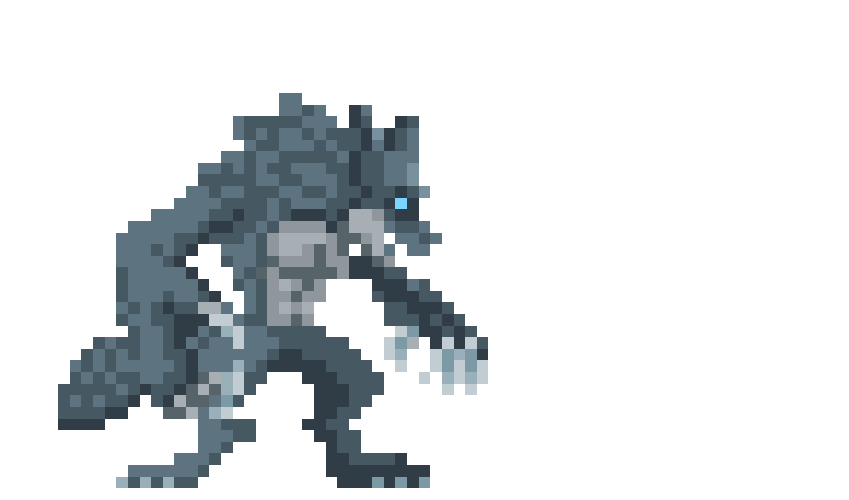
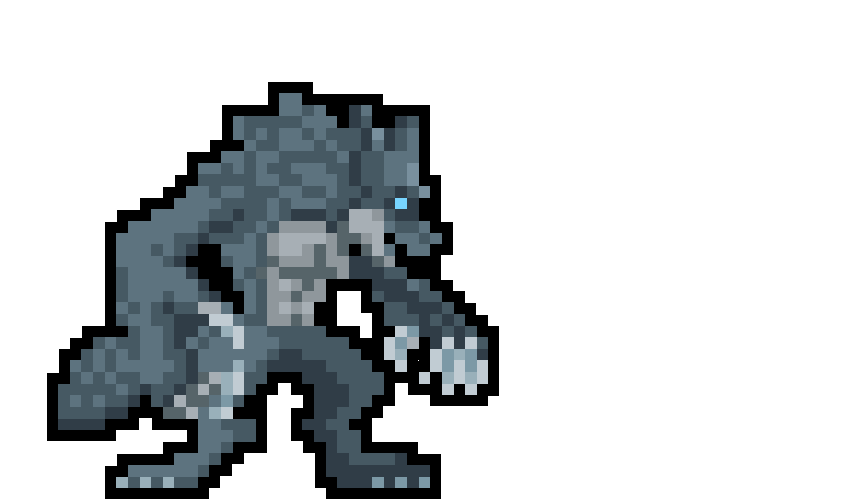
added outline to iddle werewolf sprites

diff --git a/Assets/Scripts/Player/PlayerNetController.cs b/Assets/Scripts/Player/PlayerNetController.cs
@@ -6,7 +6,7 @@ using System.Runtime.CompilerServices;
 using UnityEngine;
 using UnityEngine.U2D;
 
-public class PlayerController : MonoBehaviourPun, IPunObservable
+public class PlayerNetController : MonoBehaviourPun, IPunObservable
 {
     [SerializeField]
     public int HumanSpeed = 5;
@@ -35,7 +35,7 @@ public class PlayerController : MonoBehaviourPun, IPunObservable
     private bool wantsToAttack = false;
 
     private Vector3 initialScale;
-    private static PlayerController instance;
+    private static PlayerNetController instance;
 
     void Awake()
     {
